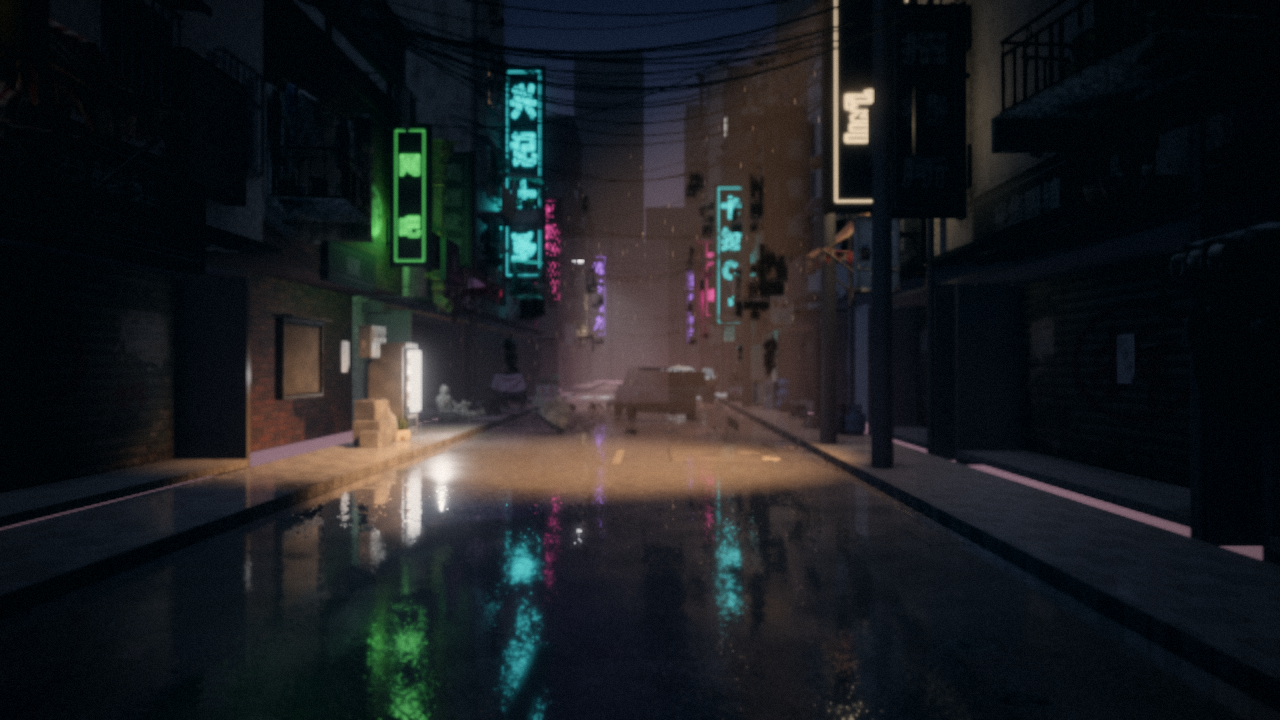
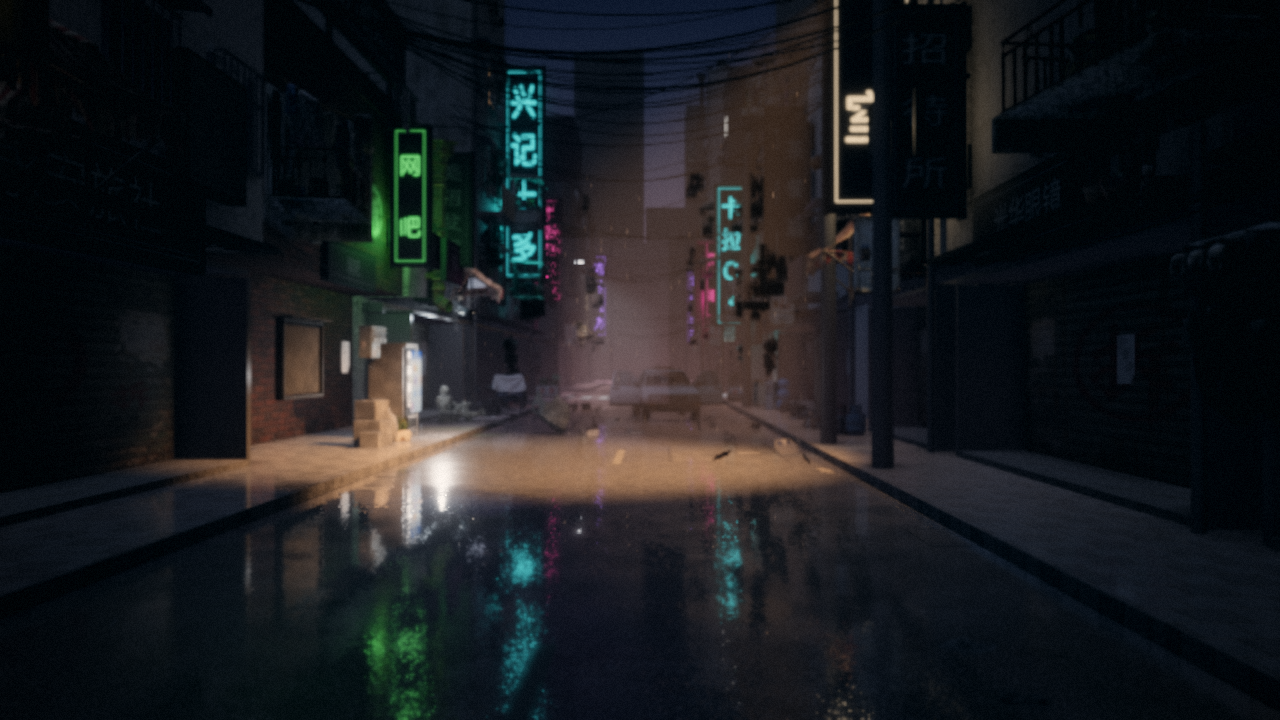
Round 4: softer puddles; snapshots and report

diff --git a/src/materials/ground.js b/src/materials/ground.js
@@ -77,7 +77,7 @@ function wetMaterial(name, ctx, { albedo, roughness, xy, T, B, coverage = 0, por
   m.emissiveNode = vec3(w.albedo).mul(neonLightAt()); // v3: coloured pools of sign light on the road
   // Already world-space: do not apply transformNormalToView's model normal matrix a second time.
   m.normalNode = normalize(cameraViewMatrix.mul(vec4(worldNormal, 0)).xyz);
-  m.roughnessNode = mix(max(w.roughness, 0.65), w.roughness, up).clamp(0.015, 1);
+  m.roughnessNode = mix(max(w.roughness, 0.65), w.roughness, up).clamp(0.03, 1);
   m.metalnessNode = float(metal);
   if (planar) {
     // v3 (Grok r16, after Threejs-Punk): the road is a plane -- a half-resolution planar reflection, broken by the
@@ -153,7 +153,7 @@ export function groundRoad(textures, ctx, lane = DEFAULT_GROUND_LANE) {
     planar.target.rotateX(-Math.PI / 2); planar.target.position.y = 0.001;
     ctx.scene.add(planar.target);
   }
-  return wetMaterial('cc_ground_road', ctx, { planar, albedo, roughness, xy, ...frame, coverage: 0.75, porosity: 0.7,
+  return wetMaterial('cc_ground_road', ctx, { planar, albedo, roughness, xy, ...frame, coverage: 0.5, porosity: 0.7,
     wetness, ...roadWaterProfile(P.x, L.halfRoad) });
 }
 

diff --git a/src/materials/wet.js b/src/materials/wet.js
@@ -59,7 +59,7 @@ export function wetLayer({ albedo, roughness, porosity = 0.6, puddle = float(0),
   // vertical rain streaks: thin wet runs darken and smooth the wall
   const streak = smoothstep(0.55, 0.8, mx_noise_float(vec3(worldPos.x.mul(9), worldPos.y.mul(0.35).sub(time.mul(0.25)), worldPos.z.mul(9)))).mul(vertical).mul(w);
   const a2 = a1.mul(float(1).sub(max(puddle.mul(0.5), streak.mul(0.27))));
-  const r2 = mix(mix(r1, r1.mul(0.5), streak), float(0.015), puddle);
+  const r2 = mix(mix(r1, r1.mul(0.5), streak), float(0.035), puddle); // r19: broken water, not a black mirror
   const nxy = ripple.mul(mix(float(0.25), float(1), puddle)).mul(w);
   return { albedo: a2, roughness: r2, puddle, nxy };
 }

diff --git a/docs/review6/critique-claude.md b/docs/review6/critique-claude.md
@@ -1,0 +1,38 @@
+# review6 批判(Claude,美术指导视角)
+
+**一句话**:人群、孩子、车都改对了;但玩家停留最久的注视画面里,光束照出来的是一团琥珀雾,不是霓虹,核心机制在画面上还不成立。
+
+**进步**:人群不再是绿色全息,也不再穿过镜头;孩子只剩投影,刻度搬到了木板上;记忆里有了真的轿车;eye-hero 背景换成了带"拆"的卷帘门,眼核中心变白,碎屑没了;外壳斑点、紫色地毯、路缘粉线、路灯蓝色拉丝都消失了;开场有了成束的电线。
+
+**实测**(亮度 0–255:10% 分位 / 均值 / 90% 分位;色度 = RGB 最大值减最小值的均值):street-eye 4/28/69,色度 14.9,目标 present 7/35/68,17.3,影调已接近;robot-wide 6/32/65,11.6,目标 robot 12/49/96,17.4;eye-hero 色度 6.9,接近黑白;flood 19/71/120,31.0(上一轮同法 11/47/110,23.3),目标 memory 5/59/134,36.6。
+
+## Top 6(按每小时的画面收益排序)
+
+1. **光束里是琥珀雾,不是霓虹(S,1 小时)。**
+   play-06 光束内(560–920,240–440)为 114/148/178,目标 memory 被照亮的右半边是 31/92/174;光束内非琥珀的鲜艳像素 play-06 为 0.0%,play-05 为 0.2%,目标 11.4%。光束外现在态的青色"卡拉OK"(play-08,185–250,100–350)反而是全画面最饱和的:现在比过去还亮。
+   改:robot/index.js:337,look 阶段 `spot.intensity` 从 70 降到 22,颜色从 (1,.74,.48) 改为 (1,.86,.72),flood 和门前仍用 70。锥体的 `inside` 改成边缘浓、中间清:`rim = smoothstep(.6e,.95e,r)·(1−smoothstep(.95e,e,r))`,`inside = .85·rim + .15`;look 阶段 `coneK` ×0.5。:362 的 `beamVol` 密度从 0.12 降到 0.04;记忆打开时 `halation` 从 0.55 降到 0.3。neon/materials.js 现在态的 `masks.g.mul(2.6)` 降到 1.2。
+   验收:光束内 10% 分位低于 40,非琥珀的鲜艳像素超过 8%。
+
+2. **注视镜头里看不到眼睛,光束没有源头(S,30 分钟)。**
+   play-05/06/08 前景是后脑勺(270–470,420–720),镜片在画外;锥体的 `camNear = smoothstep(0.4, 2.2, …)` 又抹掉了相机前 2.2 m 的光束,光像从画外打来的。memory.jpg 的核心正是"镜片发出光束"。
+   改:director.js 的 look,`pos = eye − dir·0.5 − side·0.85`,`y` 加 0.08;`look = eye + dir·7 + side·2.2`;fov 42;相机放在镜片那一侧,让镜片落在头盔轮廓边上(画面宽 28%、高 40%)。`camNear` 改为 smoothstep(0.15, 0.6);镜片处加面向相机的加法光晕片,直径为镜片 5 倍(上一轮提过,没做)。
+
+3. **高潮看不清"十一岁"(M,1 小时)。**
+   play-12(最后的空镜)木板(x 350–750)均值 50、90% 分位 63,铅笔线看不见;眼睛的线状光斑(585–700,318–342)正压在标签上,把字烧成白条;最亮最饱和的是"福"。fragment-marks 里九岁、十岁几乎看不见,板上最大的形状是盆栽叶影。play-11 右上角又出现发光圆灯箱"表"(1045–1240,0–100),layout.js:71 说已删掉,这是回归。
+   改:光斑瞄准铅笔线的中点、下移 3 cm,强度降到 30%;`lineWidth` 从 4 改为 7,当前标签字号从 26 改为 38,旧刻度 alpha 从 0.42 改为 0.7;盆栽 `castShadow = false`;门廊灯的 target 移到木板上(高 1.3 m);最后一拍 `look` 往木板挪 0.25 m、fov 再减 4,让"福"出右边框;片段播放时把圆灯箱和告示一起隐藏。木板 0.5 m 宽、一片空白,像纸板:缩到 0.22 m,加 1 cm 的线脚。
+
+4. **招牌字仍是乱码(S,40 分钟,第三次报)。**
+   flood 有"卡拉CK"(345–390,110–305)和绿色"#OK"(390–470,295–330);street-eye 有"十如C"(715–745,185–320)和"Ttsil"(840–875,85–120)。问题不在店名表:atlas.js:38–41 用三层 `strokeText` 描的是 700 字重字形的**外轮廓**,每笔都成了空心双线,一虚化就糊;断管缺口再把 O 切成 C。
+   改:用 200–300 字重(PingFang SC Thin/Light)的字形单线描一次;竖招牌不放拉丁字母,"卡拉OK"竖排时换成"歌舞厅";断管缺口避开拉丁字母。
+
+5. **等待镜头:头朝外,猫是黑球,外壳是灰塑料(M,1 小时,第二次报)。**
+   robot-wide 的头(145–275,185–310)仍朝右,镜片约 12 px,不亮;猫(0–180,560–720)是黑球加两个圆锥耳朵、两颗黄点眼睛,像万圣节玩具,cat/index.js:21 的基色反而从 0.085 降到 0.07;小腿上还有锈环(380–560,550–610)。
+   改:头朝镜头转 25°、低头 20°,休眠镜片给 0.15 的余烬自发光;猫基色 0.3 灰褐加条纹,胸口和口鼻 0.7,闭眼(隐藏 cat_eye),挪到大腿和墙之间的焦平面;崩漆颜色改为锈橙 (0.30,0.13,0.05),基色略暖 (0.62,0.60,0.56),朝上的面 clearcoat 1、roughness 0.15;流痕改在物体空间沿部件长轴计算,横放的腿就不会出现环。
+
+6. **记忆里出现现在的东西,flood 发灰(M,1 小时)。**
+   flood 卷帘门上的"拆"圈还在(605–740,315–345,第三次报);记忆里的白车就是现在的废车,驾驶门开着(590–650,380–480),轮子全是泥;后面的深色车(355–500,360–430)还是盒子;平躺的自行车轮还在(355–490,605–655,第三次报);黑位 19,比上一轮还高,右下角(850–1280,480–720)是米色的雾。
+   改:卷帘门在 memoryMask 内换成无"拆"的贴图;白车在记忆里关门、去泥、clearcoat 1;深色车换成同一轿车模型配深色车漆;删掉车轮;记忆态散射按离地高度和距离衰减,黑点压到 0。
+
+## 其余
+- 开场暖光斑仍看不到灯头(第四次报):details.js:311 的灯从 z = −3 挪到 −12。到达段路面仍像砂石;第 3、4 格仍是同一画面。
+- 头盔上仍有粉绿亮点(play-05 340,435,第二次报):雨珠高光去饱和,数量乘 0.3。破伞(robot-wide 835–1010,490–525)是平的黑圆片,像井盖。

diff --git a/docs/REPORT.md b/docs/REPORT.md
@@ -98,3 +98,4 @@ node tools/shot.mjs memory-street   # 单个镜头截图
 - 08:06 机器人用无界面 Blender 烘焙了环境光遮蔽(缝隙、胸腔、坐地处变暗);墙面加了雨水流痕、墙脚溅水带和污渍;街心那辆方块状的废弃车换成 Tripo 生成的桑塔纳(车门半开、车顶落叶),在记忆里车灯亮起;光束在镜头附近不再糊成一片。
 - 08:07 等待镜头左上半边原来全黑:机器人头顶墙上加了一根快坏的冷白灯管(每几秒闪一下,随跳闸熄灭),照出身后卷帘门上红色的'拆'字和告示(docs/snap-v3-wait.png)。
 - 08:29 第四轮批判已派出(Claude 助手 + Grok r19,素材在 docs/review6/)。同时:主视角机位往侧后上方挪(光束从镜片射出成一道光柱,不再是正对着的一团);眼睛特写机位改到镜片正前方;记忆里门旁那个像月亮的圆灯箱去掉;头盔上的品红高光点去掉。性能:1080p 不限帧约 17–18 毫秒(首次冷启动编译会到 30+,不算)。
+- 08:43 第四轮批判落地(两位批评者都把'光束里是一团琥珀雾、看不见过去'排第一):注视阶段主光减到四成并更白,光锥改成边缘亮、中间透,雾体密度降到三分之一,现存霓虹减弱、胶片光晕减弱;霓虹字改成单管(原来粗体描边成双线,远看糊);门框刻度加粗、每年标签都清楚、测绘线不再把字烧白、花盆叶子不再投影到门框;路面积水略少、略毛。
